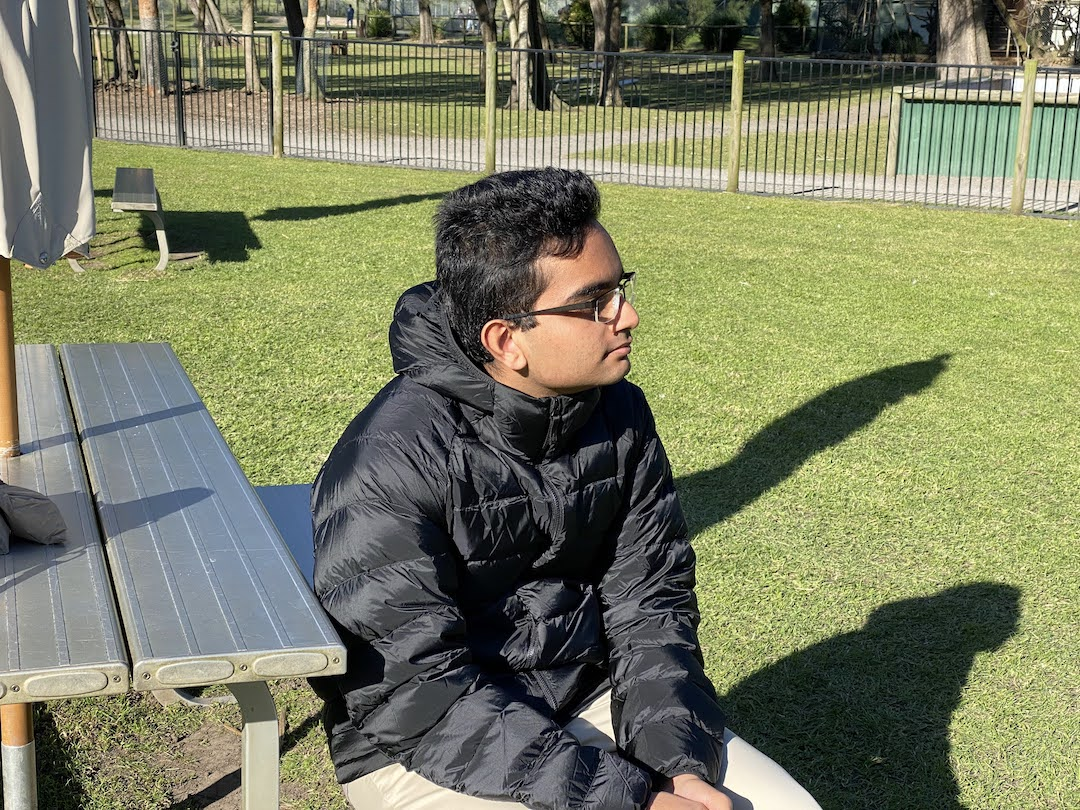
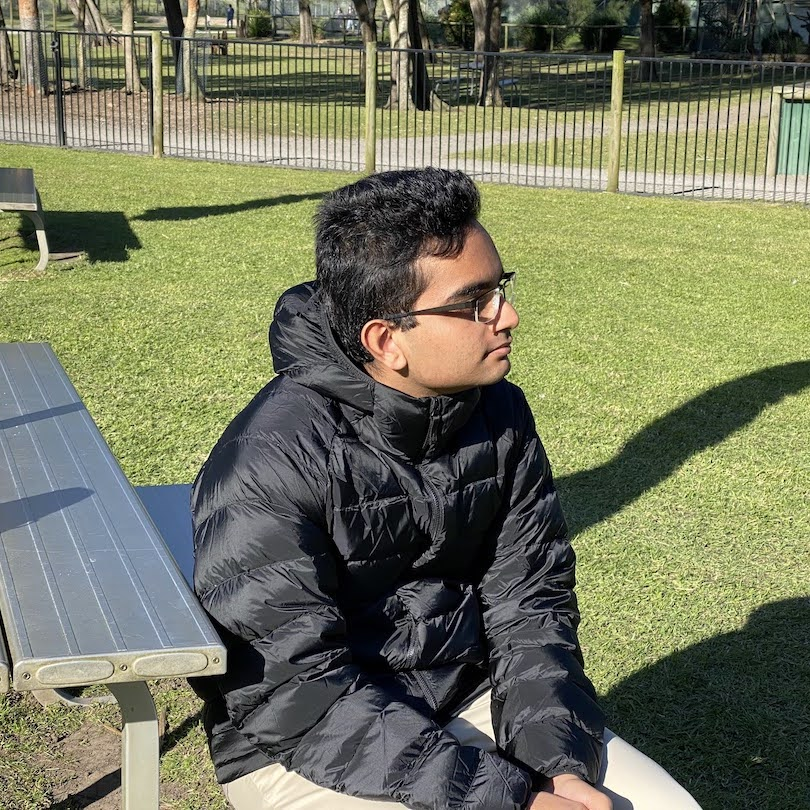
fix: photo fix

diff --git a/frontend/sections/SiteHeader.tsx b/frontend/sections/SiteHeader.tsx
@@ -73,7 +73,7 @@ export const SiteHeader = () => {
             <h1
               css={mq({
                 margin: 0,
-                fontSize: ["36px", '52px', '64px'],
+                fontSize: ["36px", "52px", "64px"],
                 fontFamily: HEADING_FAMILY,
                 color: "#000",
                 fontWeight: 800,
@@ -117,7 +117,7 @@ export const SiteHeader = () => {
             })}
           >
             <img
-              src="/profile.png"
+              src="/profile.jpg"
               css={mq({
                 width: ["216px", "360px", "476px"],
                 height: ["216px", "360px", "476px"],
